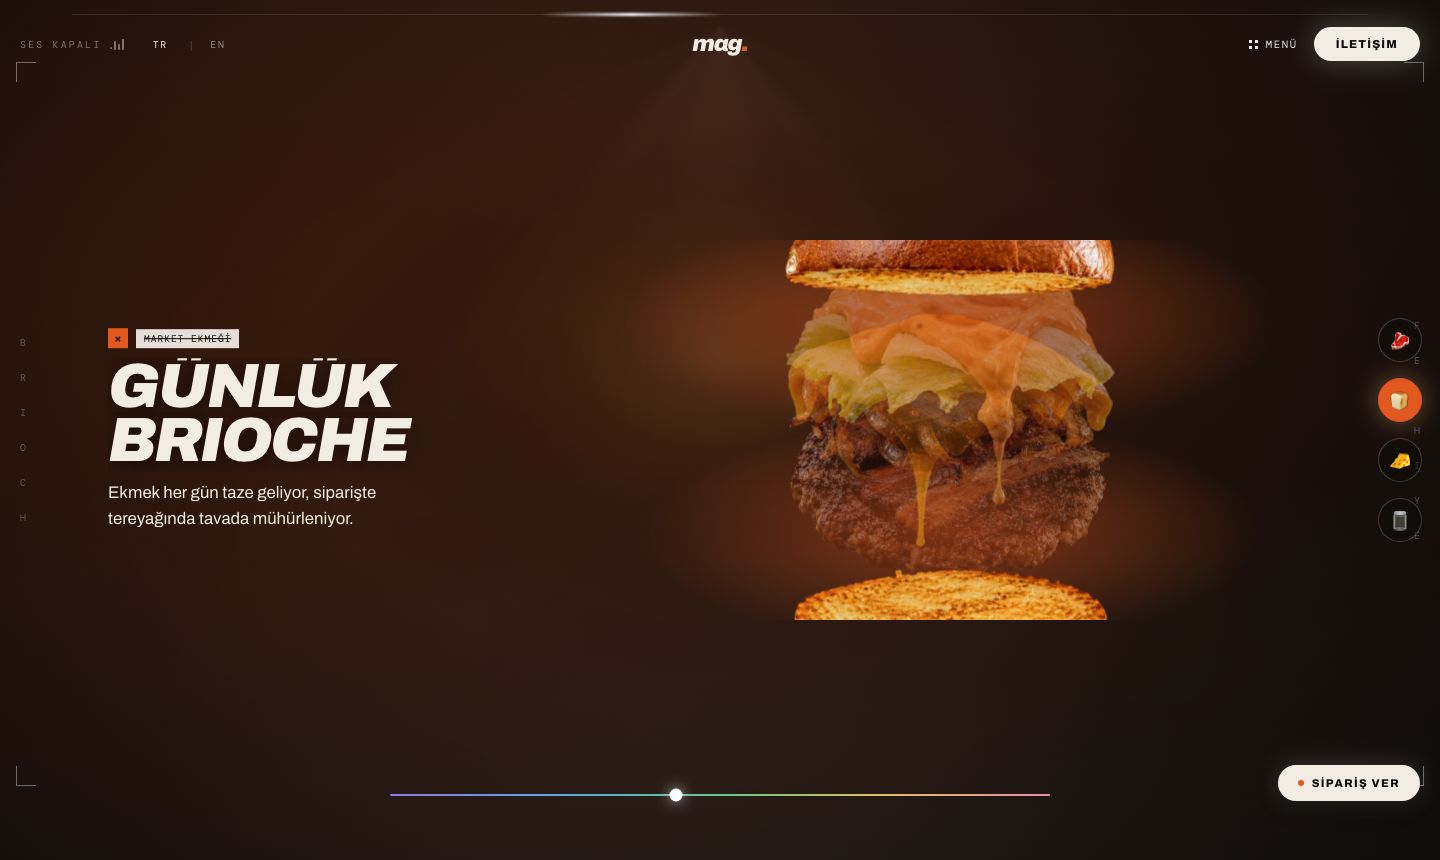
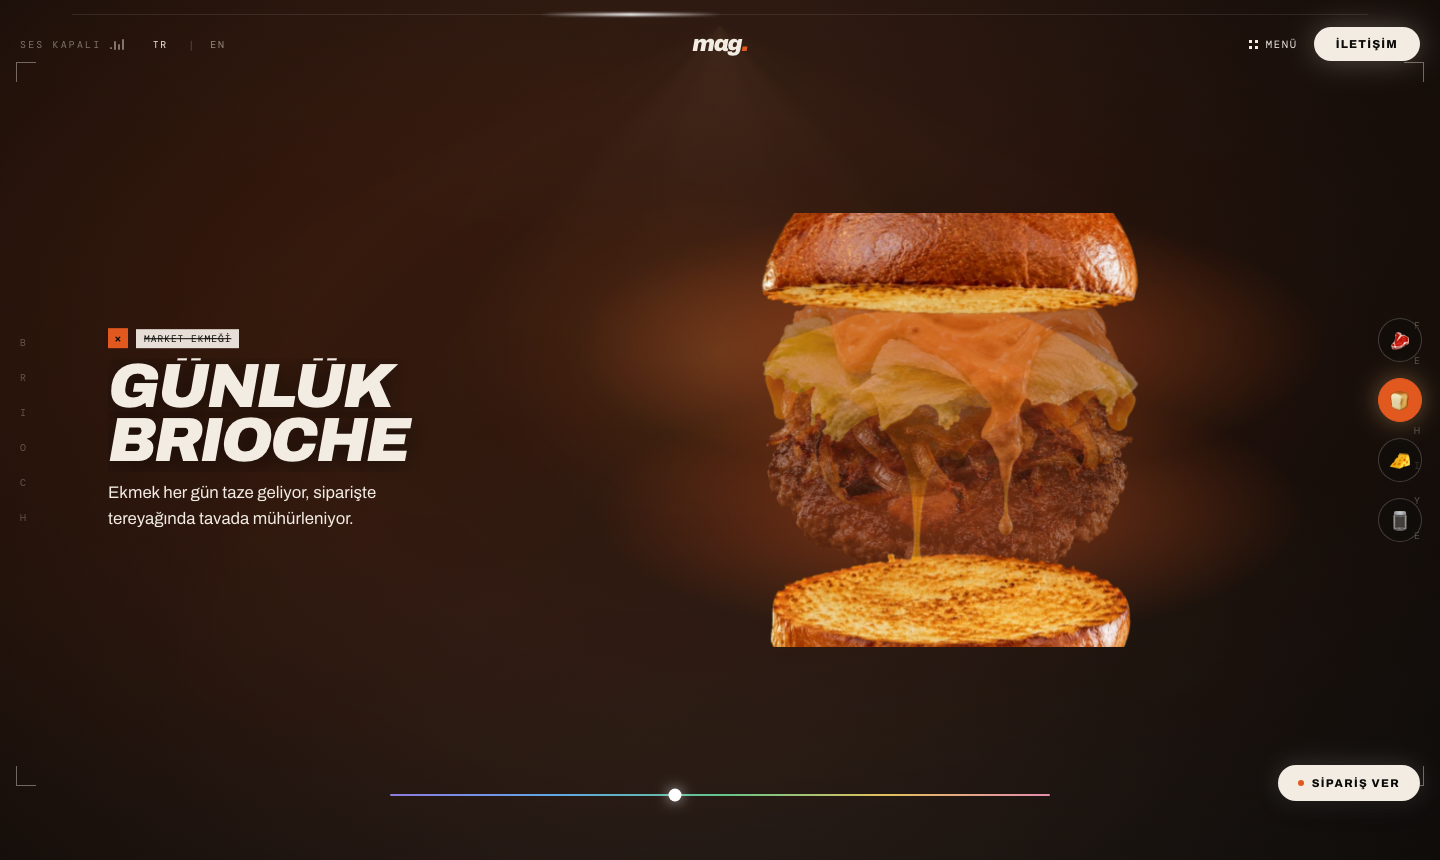
Patlamış burger: kare başına yazımı sıfırla, açıklığı %38'e indir, ölçek 0.8
Kuantalama: `open` 0.02 adımlara, ty/tz tam piksele yuvarlanıyor. Önce ayrılma
bittikten sonra bile her karede yeni transform yazılıyordu (120 karede 147
yazım); şimdi bir iddianın içinde 98 karede 0 yazım — katmanlara yalnızca iddia
değiştiğinde yeni transform gidiyor. (Blur kuantalamasının aynısı.)

Açıklık %55 → %38 ve yığın dikeyde ortalı. Böylece burger küçülmeden sığıyor:
ölçek 0.61 → 0.8, 1440'ta üstte 106 / altta 123 px boşluk. (0.9 da sığıyor ama
kenar payı 65 px'e düşüyordu.)

Ölçüm ortamı: headless Chrome bu projede şişirilmiş okuyor. Aynı koşuda
manifesto bölümü (hiç katman yok) 21.5/50 ms verirken iddia bölümü 19.5/33.4
veriyordu — yani sorun bölümde değil ortamda. Gerçek pencerede (headful)
hero/iddia/manifesto üçü de 16.7/17.7 ms.

Testte iki eskimiş eşik düzeltildi: "ayrılmış" eşiği %55 açıklığa göreydi
(>40px → >25px), "c0 öncesi/manifesto" örnekleri geçiş bandının içine
düşüyordu ve sahne yumuşatması uzak sıçramalarda geç oturuyordu (örnek
noktaları banttan uzaklaştırıldı, bekleme 3 sn).

Changed region(s): [[0.5, 0.2419, 0.8125, 0.7558]]

diff --git a/components/stage/stageMath.ts b/components/stage/stageMath.ts
@@ -85,8 +85,8 @@ export const LAYER_ORDER = ["ekmekUst", "sos", "peynir", "et", "ekmekAlt"] as co
 export type LayerKey = (typeof LAYER_ORDER)[number];
 /** Hangi claim hangi katman(lar)ı vurgular — EKMEK iki yarıyı birlikte */
 export const CLAIM_LAYERS: readonly LayerKey[][] = [["et"], ["ekmekUst", "ekmekAlt"], ["peynir"], ["sos"]];
-/** Toplam açıklık: yığın yüksekliğinin ~%55'i */
-export const EXPLODE_SPREAD = 0.55;
+/** Toplam açıklık: yığın yüksekliğinin ~%38'i (önce %55'ti — 1.0 ölçekte viewport'a sığmıyordu) */
+export const EXPLODE_SPREAD = 0.38;
 
 export interface ExplodeLayer {
   /** dikey kayma (px) — birleşikken 0 */
@@ -467,12 +467,17 @@ export function computeFrame(p: number, env: Env, offset = 0): Frame {
 
   const layers = {} as Record<LayerKey, ExplodeLayer>;
   const activeSet = ci >= 0 && ci < CLAIM_LAYERS.length ? CLAIM_LAYERS[ci] : [];
+  /* Ayrılma/birleşme dışında katmanların pozisyonu sabit olmalı: `open` ve `gap` kayan
+     noktada sürüklendiği için her karede yeni transform yazılıyordu (120 karede 147 yazım).
+     `open`'ı 0.02 adımlara ve sonuçları tam piksele yuvarla; ayrılma bitince (open=1)
+     değerler birebir aynı kalır ve `st()` yazımı atlar. Blur kuantalamasının aynısı. */
+  const openQ = Math.round(open * 50) / 50;
   LAYER_ORDER.forEach((k, i) => {
     const isActive = activeSet.includes(k);
     /* i=0 en üst katman: yukarı çıkar (negatif ty), en alt aşağı iner */
-    const ty = (i - mid) * gap * open;
+    const ty = Math.round((i - mid) * gap * openQ);
     /* hafif perspektif: üst katmanlar biraz öne — tam profil değil, hero açısına yakın */
-    const tz = (mid - i) * 12 * open;
+    const tz = Math.round((mid - i) * 12 * openQ);
     /* Vurgu değerleri KADEMELİ: her karede yeni filter/opacity yazmak beş büyük saydam
        görselin yeniden rasterize edilmesine yol açıyordu (masaüstünde ~17→38 ms). Bunlar
        yalnızca "açık mı" ve "aktif mi" durumuna bağlı; aradaki yumuşatmayı CSS 420 ms'lik
@@ -496,8 +501,10 @@ export function computeFrame(p: number, env: Env, offset = 0): Frame {
   /* Ayrık yığın tek fotoğraftan çok daha uzun; açıldıkça ölçeği kıs ki ekrana sığsın.
      (Kompozit maliyeti `contain` ile çözüldü, ölçekle değil — bkz. stage.css `.explode`.) */
   /* Ayrık yığın tek fotoğraftan uzun; açıldıkça ölçeği kıs ki ekrana sığsın.
-     Masaüstünde tasarımdaki boy (1.0); mobilde dar ekran kısmayı gerektiriyor. */
-  const fitSc = focusPose.sc * lerp(1, mobile ? 0.5 : 0.70, open);
+     Açıklık %55 → %38'e indikten sonra 0.8 rahat sığıyor (1440'ta üstte 106, altta 123 px
+     boşluk) ve gerçek Chrome'da kare süresi hero ile aynı. 0.9 da sığıyor ama kenar payı
+     65 px'e düşüyor; 0.8 farklı içerik boylarına karşı daha güvenli. */
+  const fitSc = focusPose.sc * lerp(1, mobile ? 0.5 : 0.8, open);
   /* Katmanlar kutu merkezinden ±(spread/2) kadar açılır; kutunun kendisi üstten hizalı.
      Görünür yığının merkezi = kutu üstü + kutuYüksekliği/2. Onu ekran ortasına getir. */
   /* Dikey ortalama JS'te değil CSS'te: kutuya `translateY(-50%)` uygulanır (aşağıda .explode

diff --git a/components/stage/Stage.tsx b/components/stage/Stage.tsx
@@ -266,7 +266,8 @@ export default function Stage({ stages, extra }: { stages?: StageMap; extra?: Ex
           st(
             `ex_${k}`,
             "transform",
-            `translate3d(0,${L.ty.toFixed(1)}px,${L.tz.toFixed(1)}px) scale(${L.scale.toFixed(3)})`,
+            /* değerler stageMath'te kuantalandı: aynı kare aynı dizgeyi üretir → st() atlar */
+            `translate3d(0,${L.ty}px,${L.tz}px) scale(${L.scale})`,
           );
           st(`ex_${k}`, "opacity", L.opacity.toFixed(2));
           st(`ex_${k}`, "--glow", L.glow.toFixed(3));
